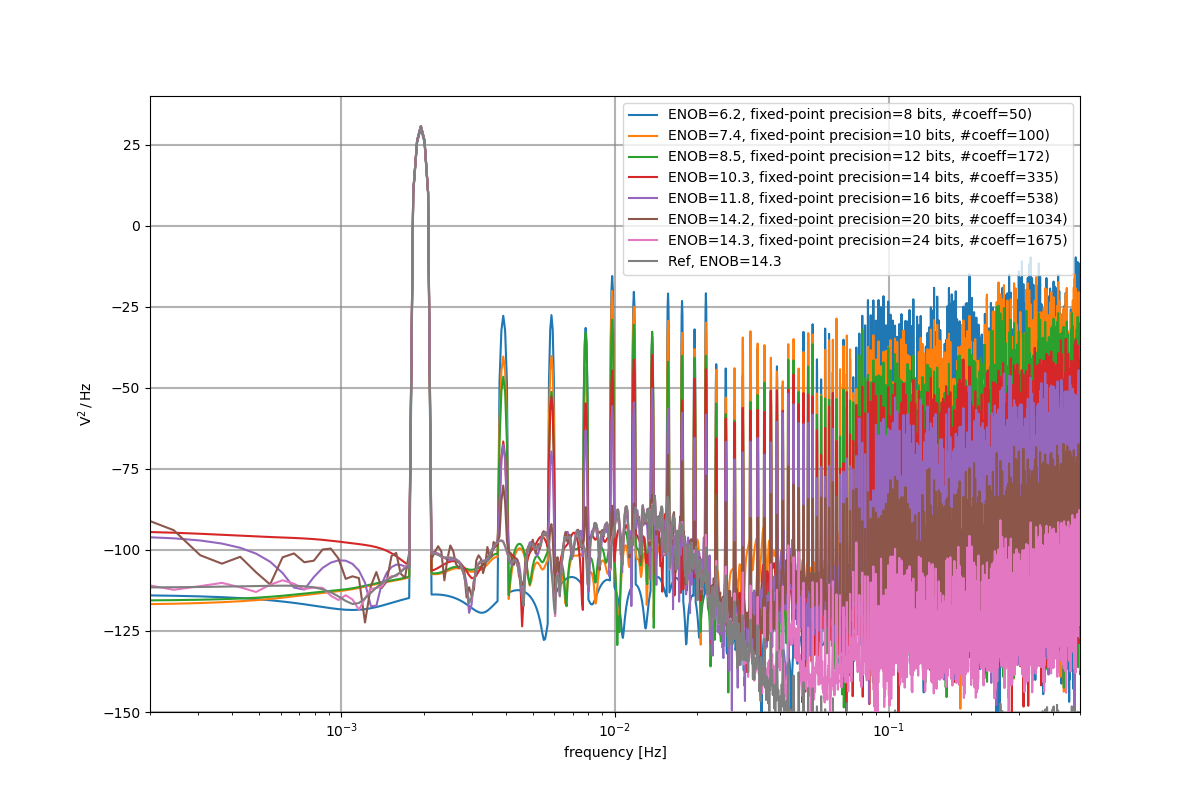
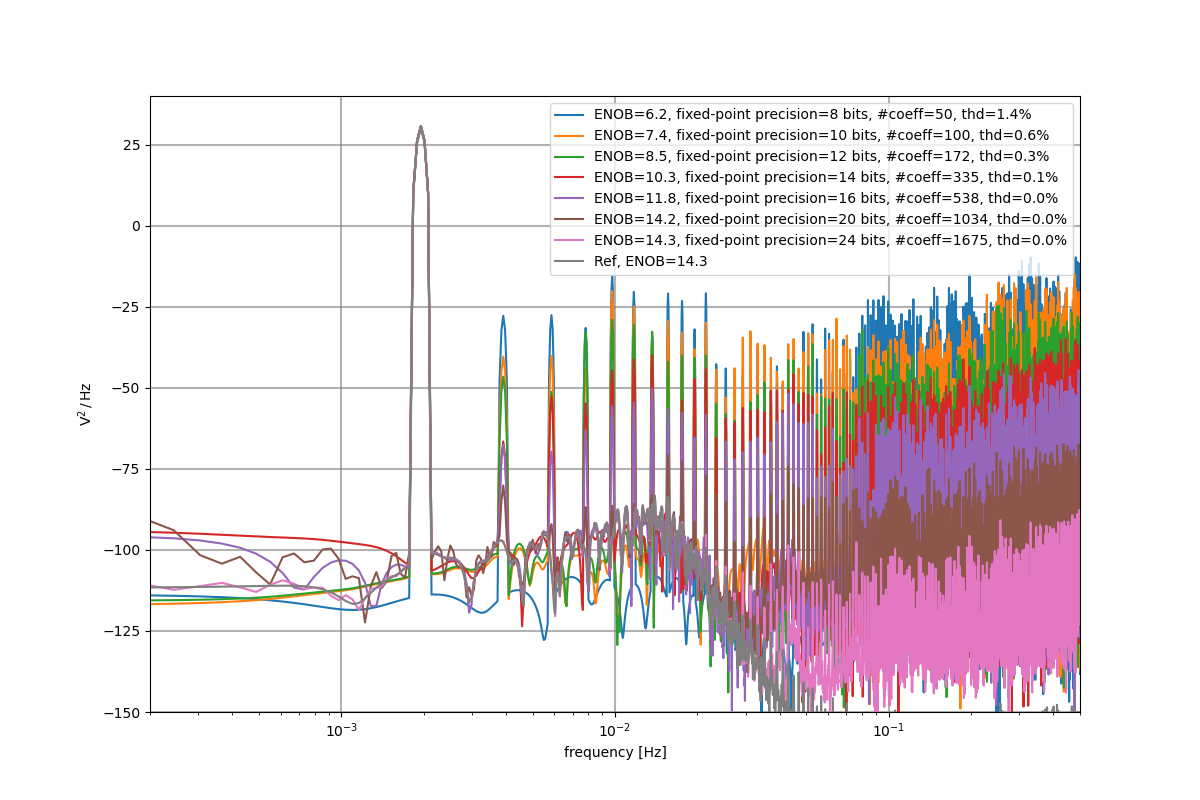
added harmonic distortion

Changed region(s): [[0.4625, 0.125, 0.8942, 0.3438]]

diff --git a/docs/code_examples/b_general/plot_e_fixed_point_aritmetics.py b/docs/code_examples/b_general/plot_e_fixed_point_aritmetics.py
@@ -191,17 +191,23 @@ for index_de, bits in enumerate(fixed_point_precision):
     # Compute power spectral density
     f, psd = cbadc.utilities.compute_power_spectral_density(u_hat[K1:])
     signal_index = cbadc.utilities.find_sinusoidal(psd, 50)
+    harm_index = 2 * signal_index[24]
+    harmonics_index = []
+    while harm_index < (size // OSR):
+        harmonics_index.append(signal_index + harm_index)
+        harm_index += signal_index[24]
+    harmonics_index = np.array(harmonics_index).flatten()
     noise_index = np.ones(psd.size, dtype=bool)
     noise_index[signal_index] = False
     noise_index[0:2] = False
     noise_index[size // OSR :] = False
     res = cbadc.utilities.snr_spectrum_computation_extended(
-        psd, signal_index, noise_index, fs=1 / T
+        psd, signal_index, noise_index, harmonics_mask=harmonics_index, fs=1 / T
     )
     SNR = 10 * np.log10(res["snr"])
     ENOB = np.round((SNR - 1.76) / 6.02, 1)
     description.append(
-        f"ENOB={ENOB}, fixed-point precision={bits} bits, #coeff={digital_estimators[index_de].number_of_filter_coefficients()})"
+        f"ENOB={ENOB}, fixed-point precision={bits} bits, #coeff={digital_estimators[index_de].number_of_filter_coefficients()}, thd={round(res['thd']*100, 1)}%"
     )
     # Plot the FIR filters
     plt.semilogx(f, 10 * np.log10(psd), label=description[-1])
@@ -224,12 +230,18 @@ for index in range(size):
 u_hats.append(np.copy(u_hat))
 f_ref, psd_ref = cbadc.utilities.compute_power_spectral_density(u_hat[K1:])
 signal_index = cbadc.utilities.find_sinusoidal(psd_ref, 50)
+harm_index = 2 * signal_index[24]
+harmonics_index = []
+while harm_index < (size // OSR):
+    harmonics_index.append(signal_index + harm_index)
+    harm_index += signal_index[24]
+harmonics_index = np.array(harmonics_index).flatten()
 noise_index = np.ones(psd_ref.size, dtype=bool)
 noise_index[signal_index] = False
 noise_index[0:2] = False
 noise_index[size // OSR :] = False
 res = cbadc.utilities.snr_spectrum_computation_extended(
-    psd_ref, signal_index, noise_index, fs=1 / T
+    psd_ref, signal_index, noise_index, harmonics_mask=harmonics_index, fs=1 / T
 )
 SNR = 10 * np.log10(res["snr"])
 ENOB = np.round((SNR - 1.76) / 6.02, 1)

diff --git a/docs/source/tutorials/b_general/plot_e_fixed_point_aritmetics.py b/docs/source/tutorials/b_general/plot_e_fixed_point_aritmetics.py
@@ -191,17 +191,23 @@ for index_de, bits in enumerate(fixed_point_precision):
     # Compute power spectral density
     f, psd = cbadc.utilities.compute_power_spectral_density(u_hat[K1:])
     signal_index = cbadc.utilities.find_sinusoidal(psd, 50)
+    harm_index = 2 * signal_index[24]
+    harmonics_index = []
+    while harm_index < (size // OSR):
+        harmonics_index.append(signal_index + harm_index)
+        harm_index += signal_index[24]
+    harmonics_index = np.array(harmonics_index).flatten()
     noise_index = np.ones(psd.size, dtype=bool)
     noise_index[signal_index] = False
     noise_index[0:2] = False
     noise_index[size // OSR :] = False
     res = cbadc.utilities.snr_spectrum_computation_extended(
-        psd, signal_index, noise_index, fs=1 / T
+        psd, signal_index, noise_index, harmonics_mask=harmonics_index, fs=1 / T
     )
     SNR = 10 * np.log10(res["snr"])
     ENOB = np.round((SNR - 1.76) / 6.02, 1)
     description.append(
-        f"ENOB={ENOB}, fixed-point precision={bits} bits, #coeff={digital_estimators[index_de].number_of_filter_coefficients()})"
+        f"ENOB={ENOB}, fixed-point precision={bits} bits, #coeff={digital_estimators[index_de].number_of_filter_coefficients()}, thd={round(res['thd']*100, 1)}%"
     )
     # Plot the FIR filters
     plt.semilogx(f, 10 * np.log10(psd), label=description[-1])
@@ -224,12 +230,18 @@ for index in range(size):
 u_hats.append(np.copy(u_hat))
 f_ref, psd_ref = cbadc.utilities.compute_power_spectral_density(u_hat[K1:])
 signal_index = cbadc.utilities.find_sinusoidal(psd_ref, 50)
+harm_index = 2 * signal_index[24]
+harmonics_index = []
+while harm_index < (size // OSR):
+    harmonics_index.append(signal_index + harm_index)
+    harm_index += signal_index[24]
+harmonics_index = np.array(harmonics_index).flatten()
 noise_index = np.ones(psd_ref.size, dtype=bool)
 noise_index[signal_index] = False
 noise_index[0:2] = False
 noise_index[size // OSR :] = False
 res = cbadc.utilities.snr_spectrum_computation_extended(
-    psd_ref, signal_index, noise_index, fs=1 / T
+    psd_ref, signal_index, noise_index, harmonics_mask=harmonics_index, fs=1 / T
 )
 SNR = 10 * np.log10(res["snr"])
 ENOB = np.round((SNR - 1.76) / 6.02, 1)

diff --git a/src/cbadc/utilities.py b/src/cbadc/utilities.py
@@ -319,7 +319,11 @@ def snr_spectrum_computation(
 
 
 def snr_spectrum_computation_extended(
-    spectrum: np.ndarray, signal_mask: np.ndarray, noise_mask: np.ndarray, fs
+    spectrum: np.ndarray,
+    signal_mask: np.ndarray,
+    noise_mask: np.ndarray,
+    harmonics_mask: np.ndarray = np.array([0]),
+    fs: float = 1,
 ):
     """Extended spectrum computations
 
@@ -344,27 +348,34 @@ def snr_spectrum_computation_extended(
         window: `str`
         CG: `float`
         NG: `float`
+        thd: `float`
+        thd_n: `float`
+        sinad: `float`
     }
         Python dict containing relevant spectrum information.
     """
-    window = "blackman"
+    win = "blackman"
     CG = 1.0
     NG = 1.0
     N = spectrum.size
     f_bin = fs / N
-    if window == "blackman":
+    if win == "blackman":
         window = scipy.signal.windows.blackman(N)
         CG = np.mean(window)
         NG = np.sum(window ** 2) / N
-    if window == "hanning":
+    if win == "hanning":
         window = scipy.signal.windows.blackman(N)
         CG = np.mean(window)
         NG = np.sum(window ** 2) / N
 
     noise = np.sum(spectrum[noise_mask])
     signal = np.sum(spectrum[signal_mask])
+    harmonics = np.sum(spectrum[harmonics_mask])
 
     snr = signal / noise
+    sinad = (signal + noise + harmonics) / (noise + harmonics)
+    thd = np.sqrt(harmonics / signal)
+    thd_n = np.sqrt((harmonics + noise) / signal)
     signal_rms = np.sqrt(signal * NG * f_bin / (CG ** 2))
     noise_rms = np.sqrt(noise * f_bin)
 
@@ -375,6 +386,9 @@ def snr_spectrum_computation_extended(
         "window": window,
         "CG": CG,
         "NG": NG,
+        "thd": thd,
+        "thd_n": thd_n,
+        "sinad": sinad,
     }
 
 

diff --git a/docs/source/tutorials/b_general/plot_e_fixed_point_aritmetics.rst b/docs/source/tutorials/b_general/plot_e_fixed_point_aritmetics.rst
@@ -396,7 +396,7 @@ Resulting Estimate Precision
 ----------------------------
 
 
-.. GENERATED FROM PYTHON SOURCE LINES 180-260
+.. GENERATED FROM PYTHON SOURCE LINES 180-272
 
 .. code-block:: default
    :lineno-start: 181
@@ -415,17 +415,23 @@ Resulting Estimate Precision
         # Compute power spectral density
         f, psd = cbadc.utilities.compute_power_spectral_density(u_hat[K1:])
         signal_index = cbadc.utilities.find_sinusoidal(psd, 50)
+        harm_index = 2 * signal_index[24]
+        harmonics_index = []
+        while harm_index < (size // OSR):
+            harmonics_index.append(signal_index + harm_index)
+            harm_index += signal_index[24]
+        harmonics_index = np.array(harmonics_index).flatten()
         noise_index = np.ones(psd.size, dtype=bool)
         noise_index[signal_index] = False
         noise_index[0:2] = False
         noise_index[size // OSR :] = False
         res = cbadc.utilities.snr_spectrum_computation_extended(
-            psd, signal_index, noise_index, fs=1 / T
+            psd, signal_index, noise_index, harmonics_mask=harmonics_index, fs=1 / T
         )
         SNR = 10 * np.log10(res["snr"])
         ENOB = np.round((SNR - 1.76) / 6.02, 1)
         description.append(
-            f"ENOB={ENOB}, fixed-point precision={bits} bits, #coeff={digital_estimators[index_de].number_of_filter_coefficients()})"
+            f"ENOB={ENOB}, fixed-point precision={bits} bits, #coeff={digital_estimators[index_de].number_of_filter_coefficients()}, thd={round(res['thd']*100, 1)}%"
         )
         # Plot the FIR filters
         plt.semilogx(f, 10 * np.log10(psd), label=description[-1])
@@ -448,12 +454,18 @@ Resulting Estimate Precision
     u_hats.append(np.copy(u_hat))
     f_ref, psd_ref = cbadc.utilities.compute_power_spectral_density(u_hat[K1:])
     signal_index = cbadc.utilities.find_sinusoidal(psd_ref, 50)
+    harm_index = 2 * signal_index[24]
+    harmonics_index = []
+    while harm_index < (size // OSR):
+        harmonics_index.append(signal_index + harm_index)
+        harm_index += signal_index[24]
+    harmonics_index = np.array(harmonics_index).flatten()
     noise_index = np.ones(psd_ref.size, dtype=bool)
     noise_index[signal_index] = False
     noise_index[0:2] = False
     noise_index[size // OSR :] = False
     res = cbadc.utilities.snr_spectrum_computation_extended(
-        psd_ref, signal_index, noise_index, fs=1 / T
+        psd_ref, signal_index, noise_index, harmonics_mask=harmonics_index, fs=1 / T
     )
     SNR = 10 * np.log10(res["snr"])
     ENOB = np.round((SNR - 1.76) / 6.02, 1)
@@ -506,7 +518,7 @@ Resulting Estimate Precision
 
 .. rst-class:: sphx-glr-timing
 
-   **Total running time of the script:** ( 1 minutes  50.090 seconds)
+   **Total running time of the script:** ( 1 minutes  39.459 seconds)
 
 
 .. _sphx_glr_download_tutorials_b_general_plot_e_fixed_point_aritmetics.py:

diff --git a/docs/source/tutorials/b_general/sg_execution_times.rst b/docs/source/tutorials/b_general/sg_execution_times.rst
@@ -5,10 +5,10 @@
 
 Computation times
 =================
-**01:50.090** total execution time for **tutorials_b_general** files:
+**01:39.459** total execution time for **tutorials_b_general** files:
 
 +-------------------------------------------------------------------------------------------------------------+-----------+--------+
-| :ref:`sphx_glr_tutorials_b_general_plot_e_fixed_point_aritmetics.py` (``plot_e_fixed_point_aritmetics.py``) | 01:50.090 | 0.0 MB |
+| :ref:`sphx_glr_tutorials_b_general_plot_e_fixed_point_aritmetics.py` (``plot_e_fixed_point_aritmetics.py``) | 01:39.459 | 0.0 MB |
 +-------------------------------------------------------------------------------------------------------------+-----------+--------+
 | :ref:`sphx_glr_tutorials_b_general_plot_a_compare_estimator.py` (``plot_a_compare_estimator.py``)           | 00:00.000 | 0.0 MB |
 +-------------------------------------------------------------------------------------------------------------+-----------+--------+
